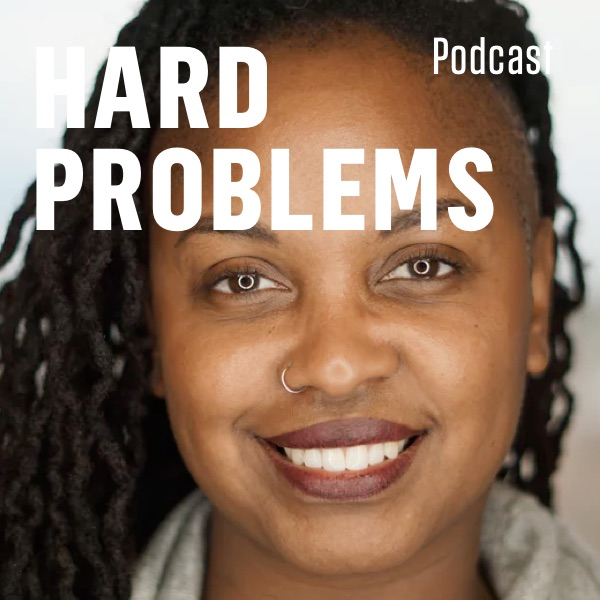
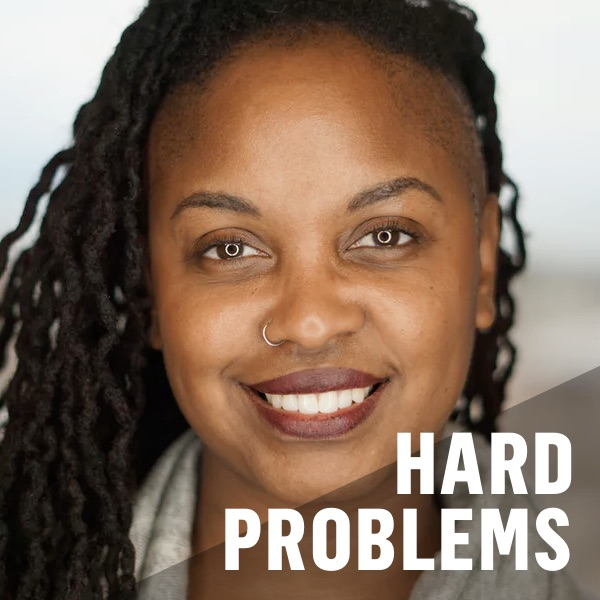
Style changes and new brand in podcast images

diff --git a/source/stylesheets/_base.scss b/source/stylesheets/_base.scss
@@ -19,20 +19,18 @@ a:active {
 }
 
 h1 {
-    font-size: 36px;
-    font-weight: 300;
-    letter-spacing: -0.03em;
-    
+    font-size: 14px;
+    letter-spacing: 0.05em;
+    font-weight: 700;
+    text-transform: uppercase;
     position: absolute;
     top: 0;
     left: 0;
     margin: 0;
-    padding: 16px 16px 12px 16px;
+    padding: 16px 16px 10px 16px;
     background: #fee100;
     width: 100%;
     box-sizing: border-box;
-    font-size: 16px;
-    font-weight: 500;
 }
 
 b.subtitle {
@@ -42,7 +40,7 @@ b.subtitle {
 
 h2 {
     font-size: 30px;
-    font-weight: 300;
+    font-weight: 500;
     margin: 1em 0 0.5em 0;
     
 }
@@ -189,11 +187,9 @@ nav {
     }
     
     h1 {
-        font-size: 64px;
-        font-weight: 300;
+        font-size: 52px;
         margin-top: 20px;
         margin-left: -2px;
-        
         position: relative;
         top: 0;
         left: 0;
